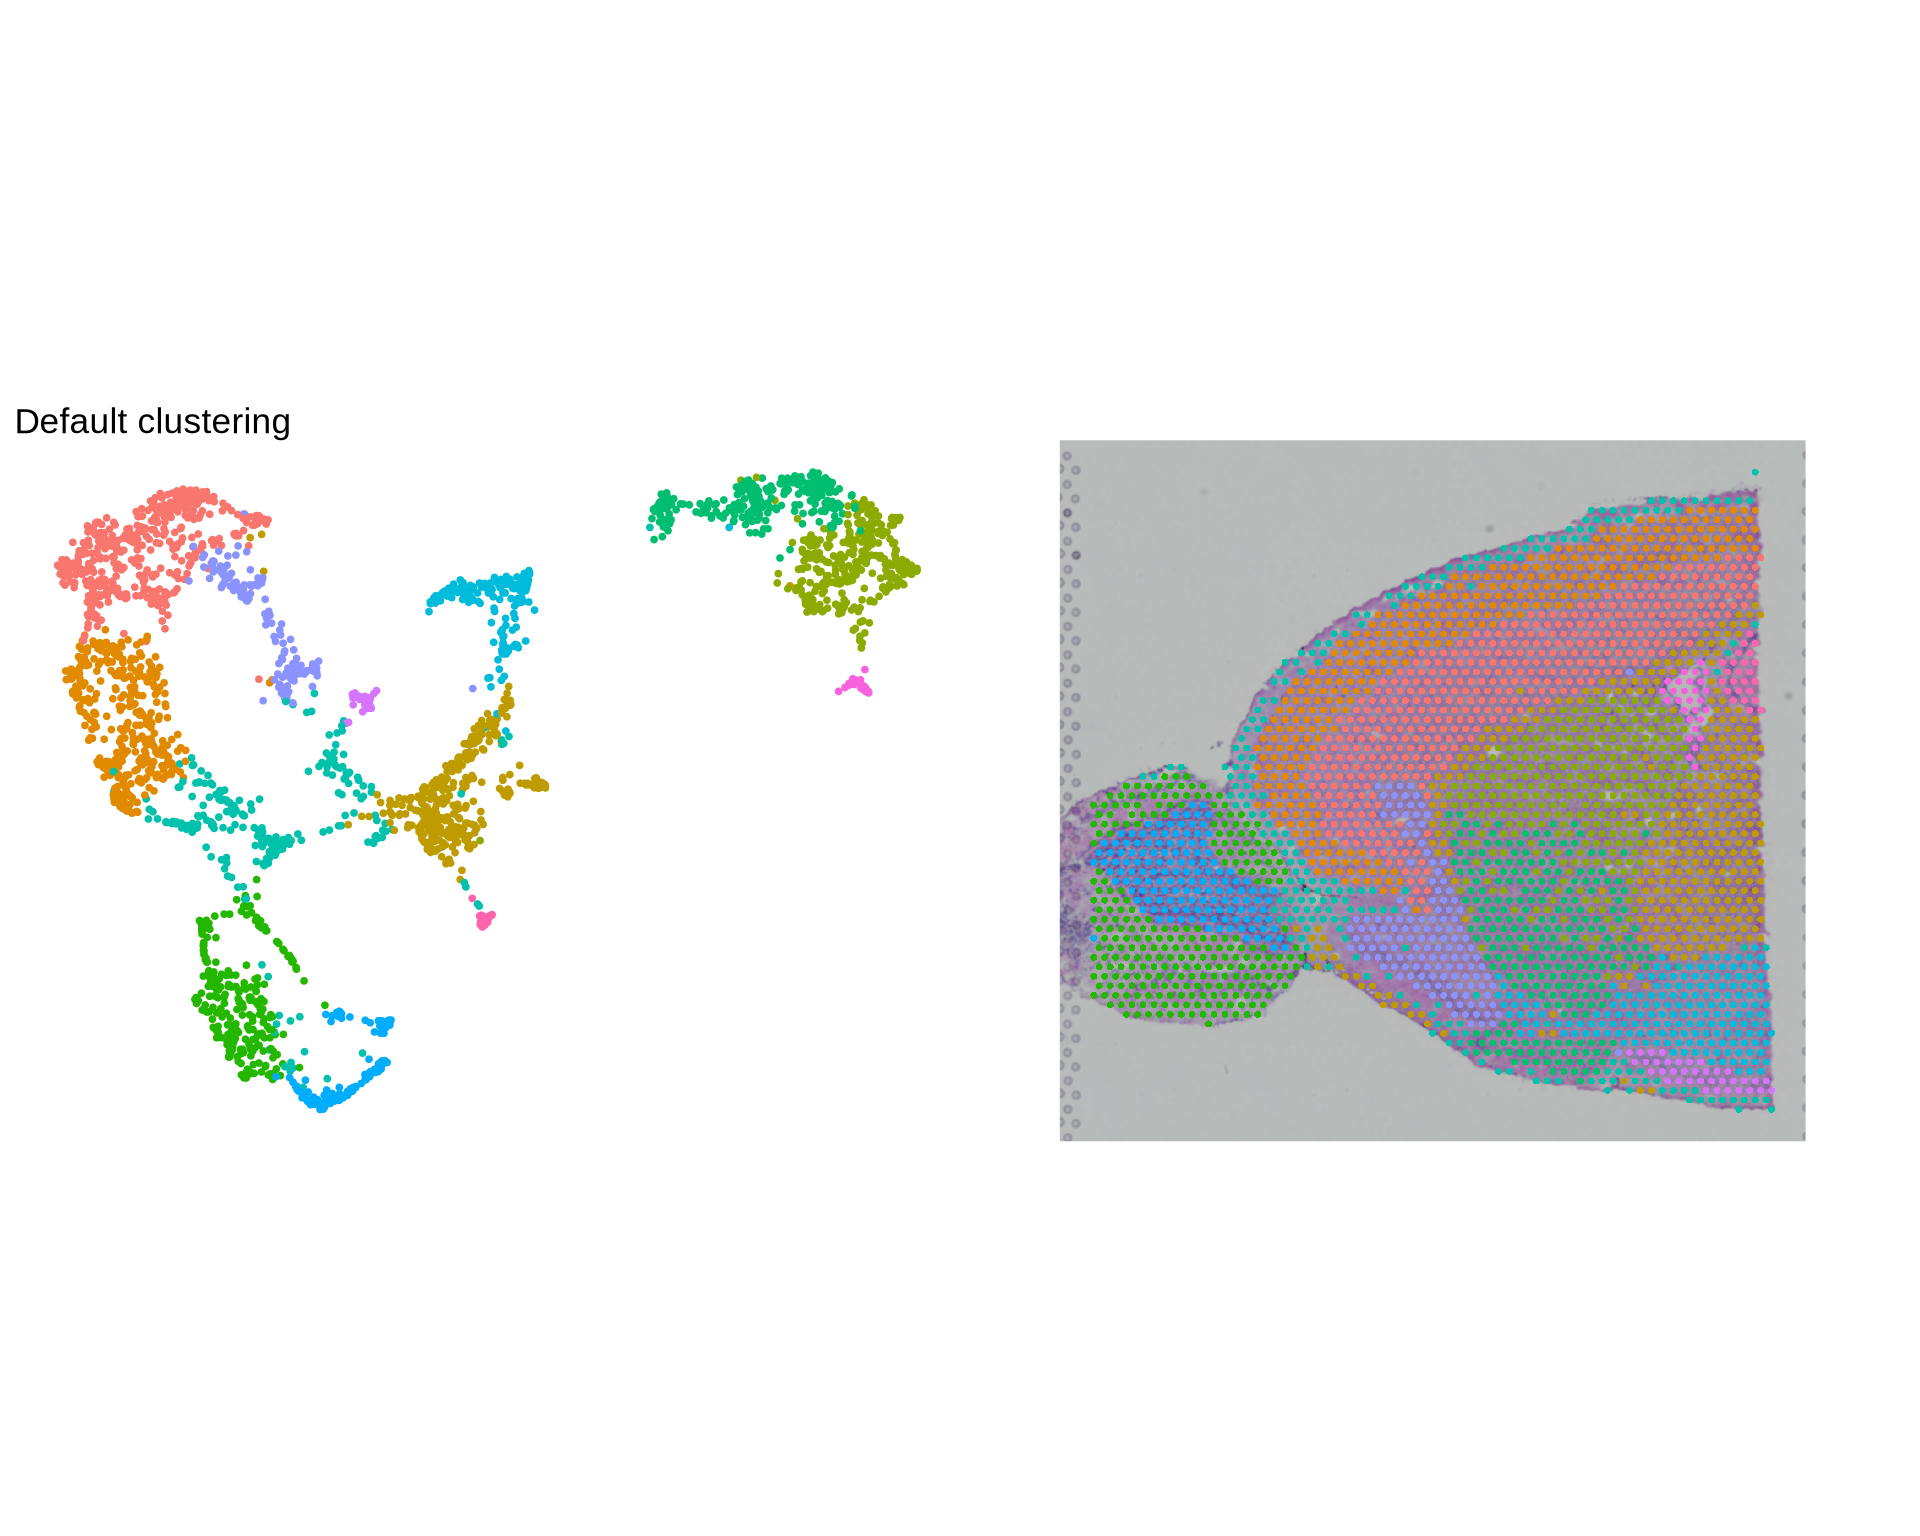
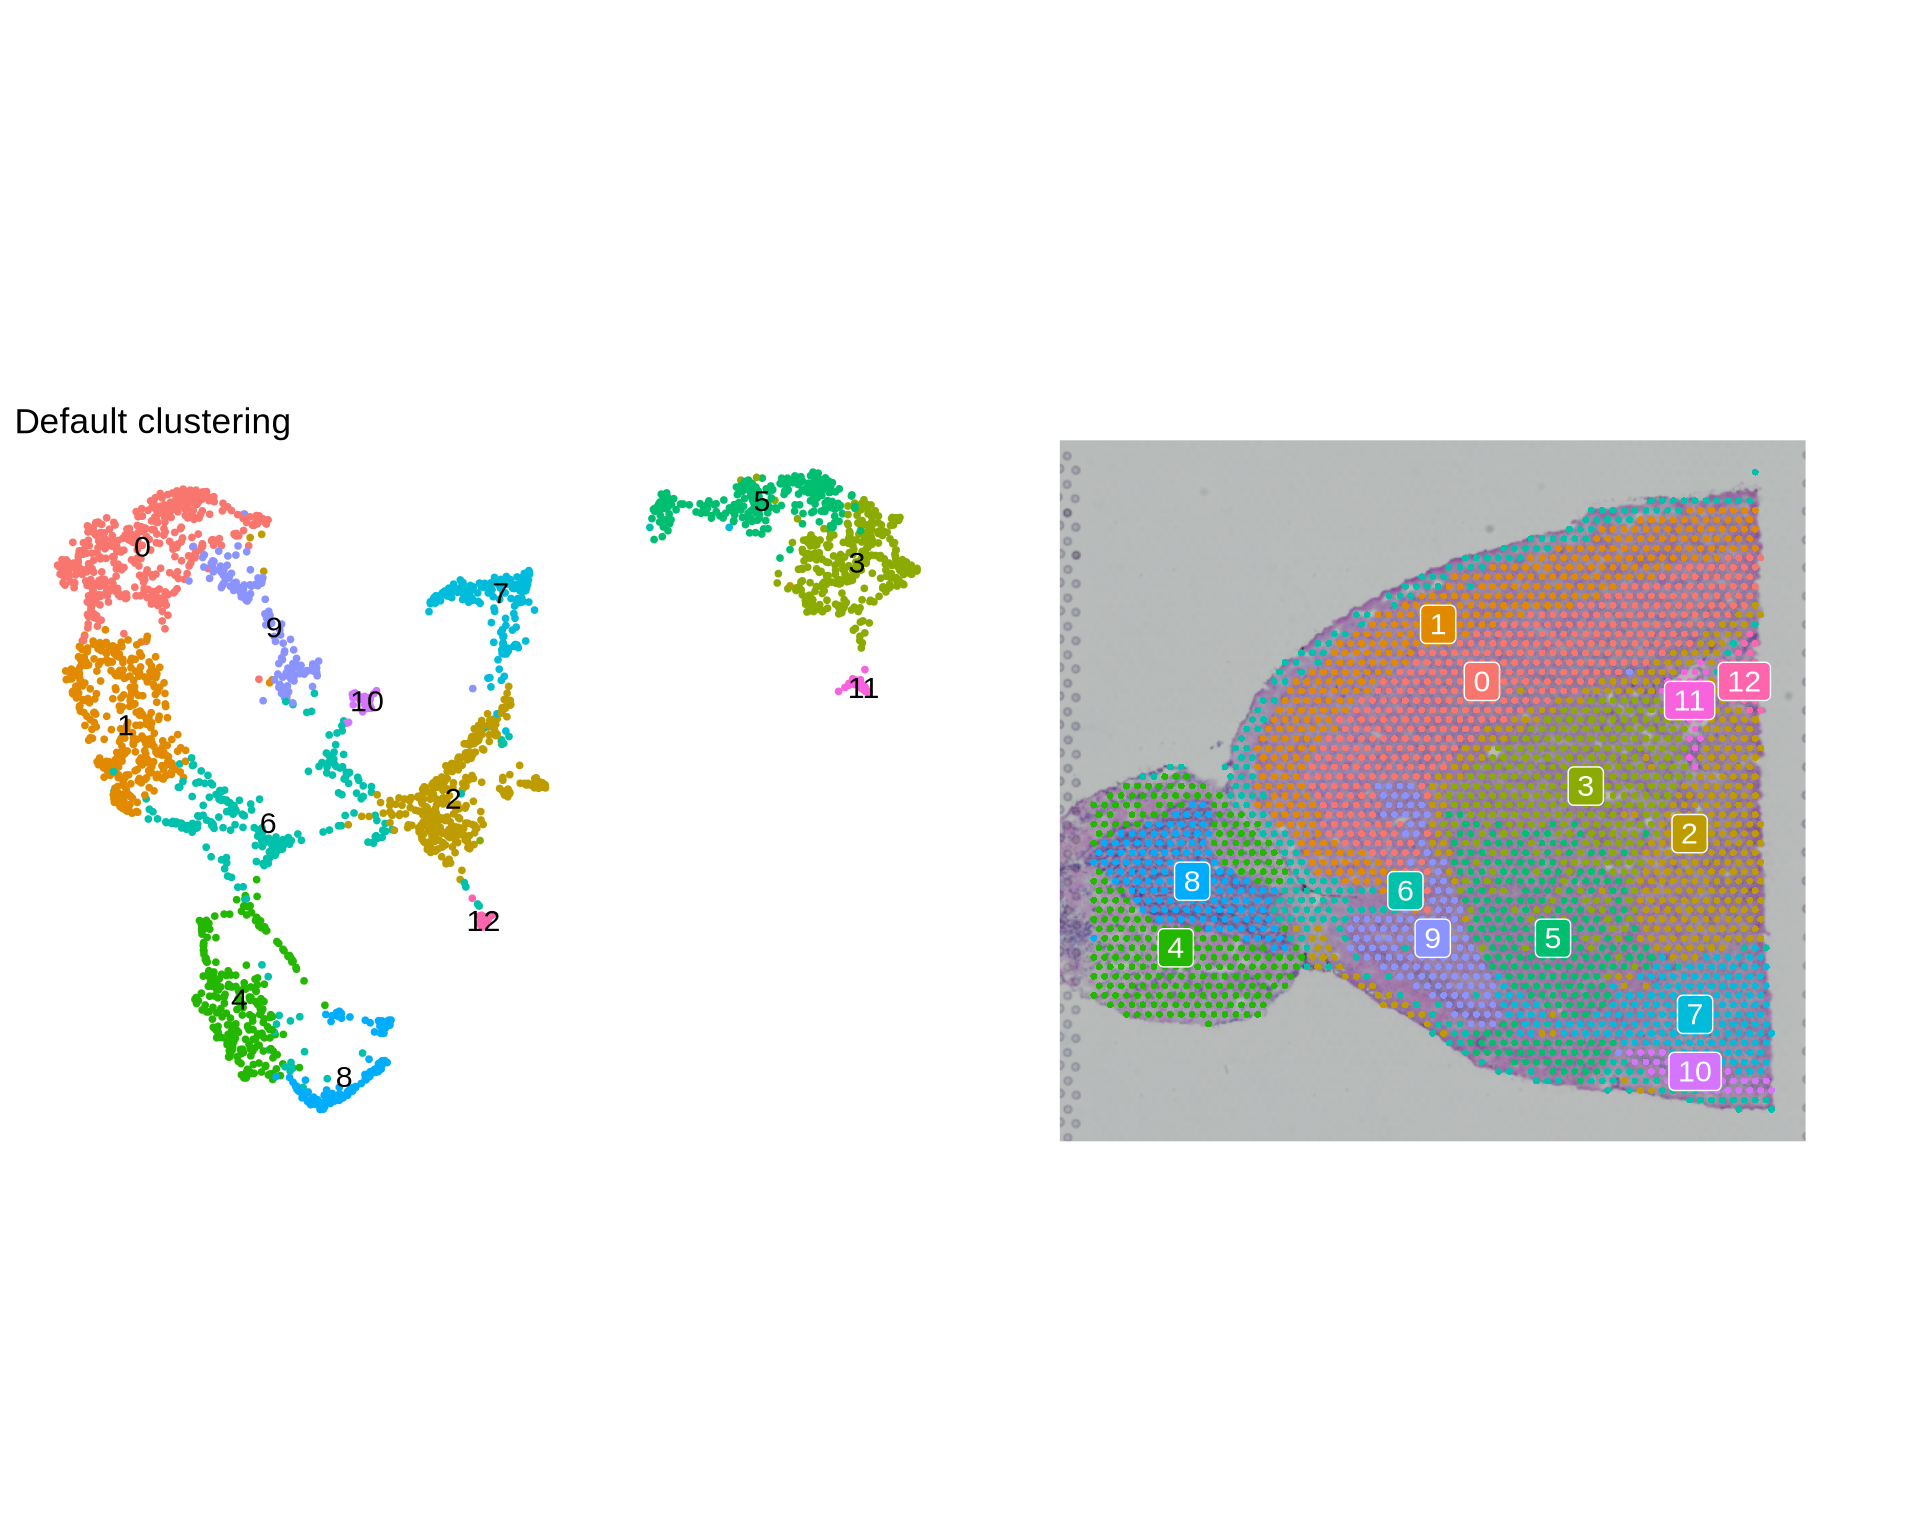
fix narrative in clustering sections; add link to archived slide version

diff --git a/materials/slides.md b/materials/slides.md
@@ -5,7 +5,7 @@
 ::: {.callout-tip}
 #### Downloading the slides
 
-The original presentation can be found <a href="https://docs.google.com/presentation/d/1QNJYcyfX9AYeSQCHnm07STDrMj9u37_dBIr73a2IYwM/edit?usp=sharing" target="_blank">here</a>, where it can be easily downloaded in different formats (File > Download).
+The original presentation can be found <a href="https://docs.google.com/presentation/d/1-N71D8-8DwzQQyc_X2FfB06pcb3En_0plnMJKh_hEFY/edit?usp=sharing" target="_blank">here</a>, where it can be easily downloaded in different formats (File > Download).
 :::
 
 <style>
@@ -23,5 +23,5 @@ The original presentation can be found <a href="https://docs.google.com/presenta
 </style>
 
 <div class="slide-container">
-<iframe src="https://docs.google.com/presentation/d/e/2PACX-1vQonCGAR7LE2zMxYAoNm5vNBn3Ybm6JxCc3Rp8Weor4-Z0utJqNA3UMLypcrKBNtJhvI5bUXUYZmCRW/pubembed?start=false&loop=false&delayms=60000" frameborder="0" allowfullscreen="true" mozallowfullscreen="true" webkitallowfullscreen="true"></iframe>
+<iframe src="https://docs.google.com/presentation/d/e/2PACX-1vS-DA7EgrPpC2QJ79Bpf8als6oZkD3QTK-gTHECLUQZH6TzWt6MqqGQ8MLWDzMxk_yz5SVh0z6nAyYm/pubembed?start=false&loop=false&delayms=60000" frameborder="0" allowfullscreen="true" mozallowfullscreen="true" webkitallowfullscreen="true"></iframe>
 </div>
